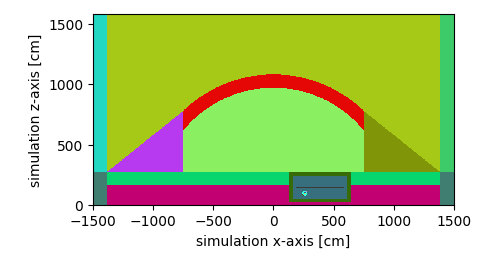
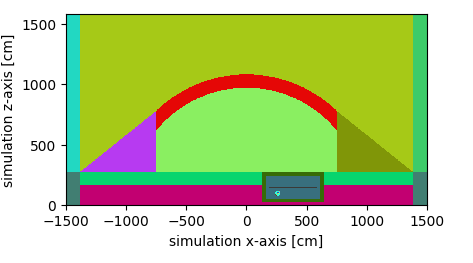
Büchel plots

diff --git a/input-buechel-storage.py b/input-buechel-storage.py
@@ -642,6 +642,31 @@ if plot:
     yfactor = 1.2
     zfactor = 1.2
 
+    plotxwidth = 3000
+    plotzwidth = zmax - zmin
+    factor = plotzwidth / plotxwidth
+    mp = 1200
+    pixels = (mp, int(mp * factor))
+    plt.figure(figsize=(5, 5 * factor))
+    # root.plot(origin = (0, pasd4 + vaultt1 + vaultd3 / 2, (zmax - zmin) / 2),
+    root.plot(origin = (0, sourcey, (zmax - zmin) / 2),
+              basis=('xz'),
+              width=(plotxwidth, plotzwidth),
+              pixels=pixels,
+              seed = 1)
+    plt.xlabel("simulation x-axis [cm]")
+    plt.ylabel("simulation z-axis [cm]")
+    plt.tight_layout()
+    plt.savefig(os.path.join(basepath, "front-view-vault-zoom.png"))
+    plt.savefig(os.path.join(basepath, "front-view-vault-zoom.pdf"))
+    plt.close()
+
+    plt.figure(figsize=(8, 8))
+    root.plot(origin = (0, pasd4 + vaultt1 + vaultd3 / 2, (zmax - zmin) / 2), basis=('xz'), width=((xmax - xmin) * xfactor, (zmax - zmin) * zfactor), seed = 1)
+    plt.title("Front View, Vault position")
+    plt.savefig(os.path.join(basepath, "front-view-vault.png"))
+    plt.close()
+
     plt.figure(figsize=(8, 8))
     root.plot(origin = (sourcex, sourcey, sourcez),
               basis=('xz'),
@@ -668,11 +693,6 @@ if plot:
     plt.savefig(os.path.join(basepath, "front-view.png"))
     plt.close()
 
-    plt.figure(figsize=(8, 8))
-    root.plot(origin = (0, pasd4 + vaultt1 + vaultd3 / 2, (zmax - zmin) / 2), basis=('xz'), width=((xmax - xmin) * xfactor, (zmax - zmin) * zfactor), seed = 1)
-    plt.title("Front View, Vault position")
-    plt.savefig(os.path.join(basepath, "front-view-vault.png"))
-    plt.close()
 
     plt.figure(figsize=(8, 8))
     root.plot(origin = (0, ymin + (ymax - ymin) / 2, pash4 + pash1 + 1),
